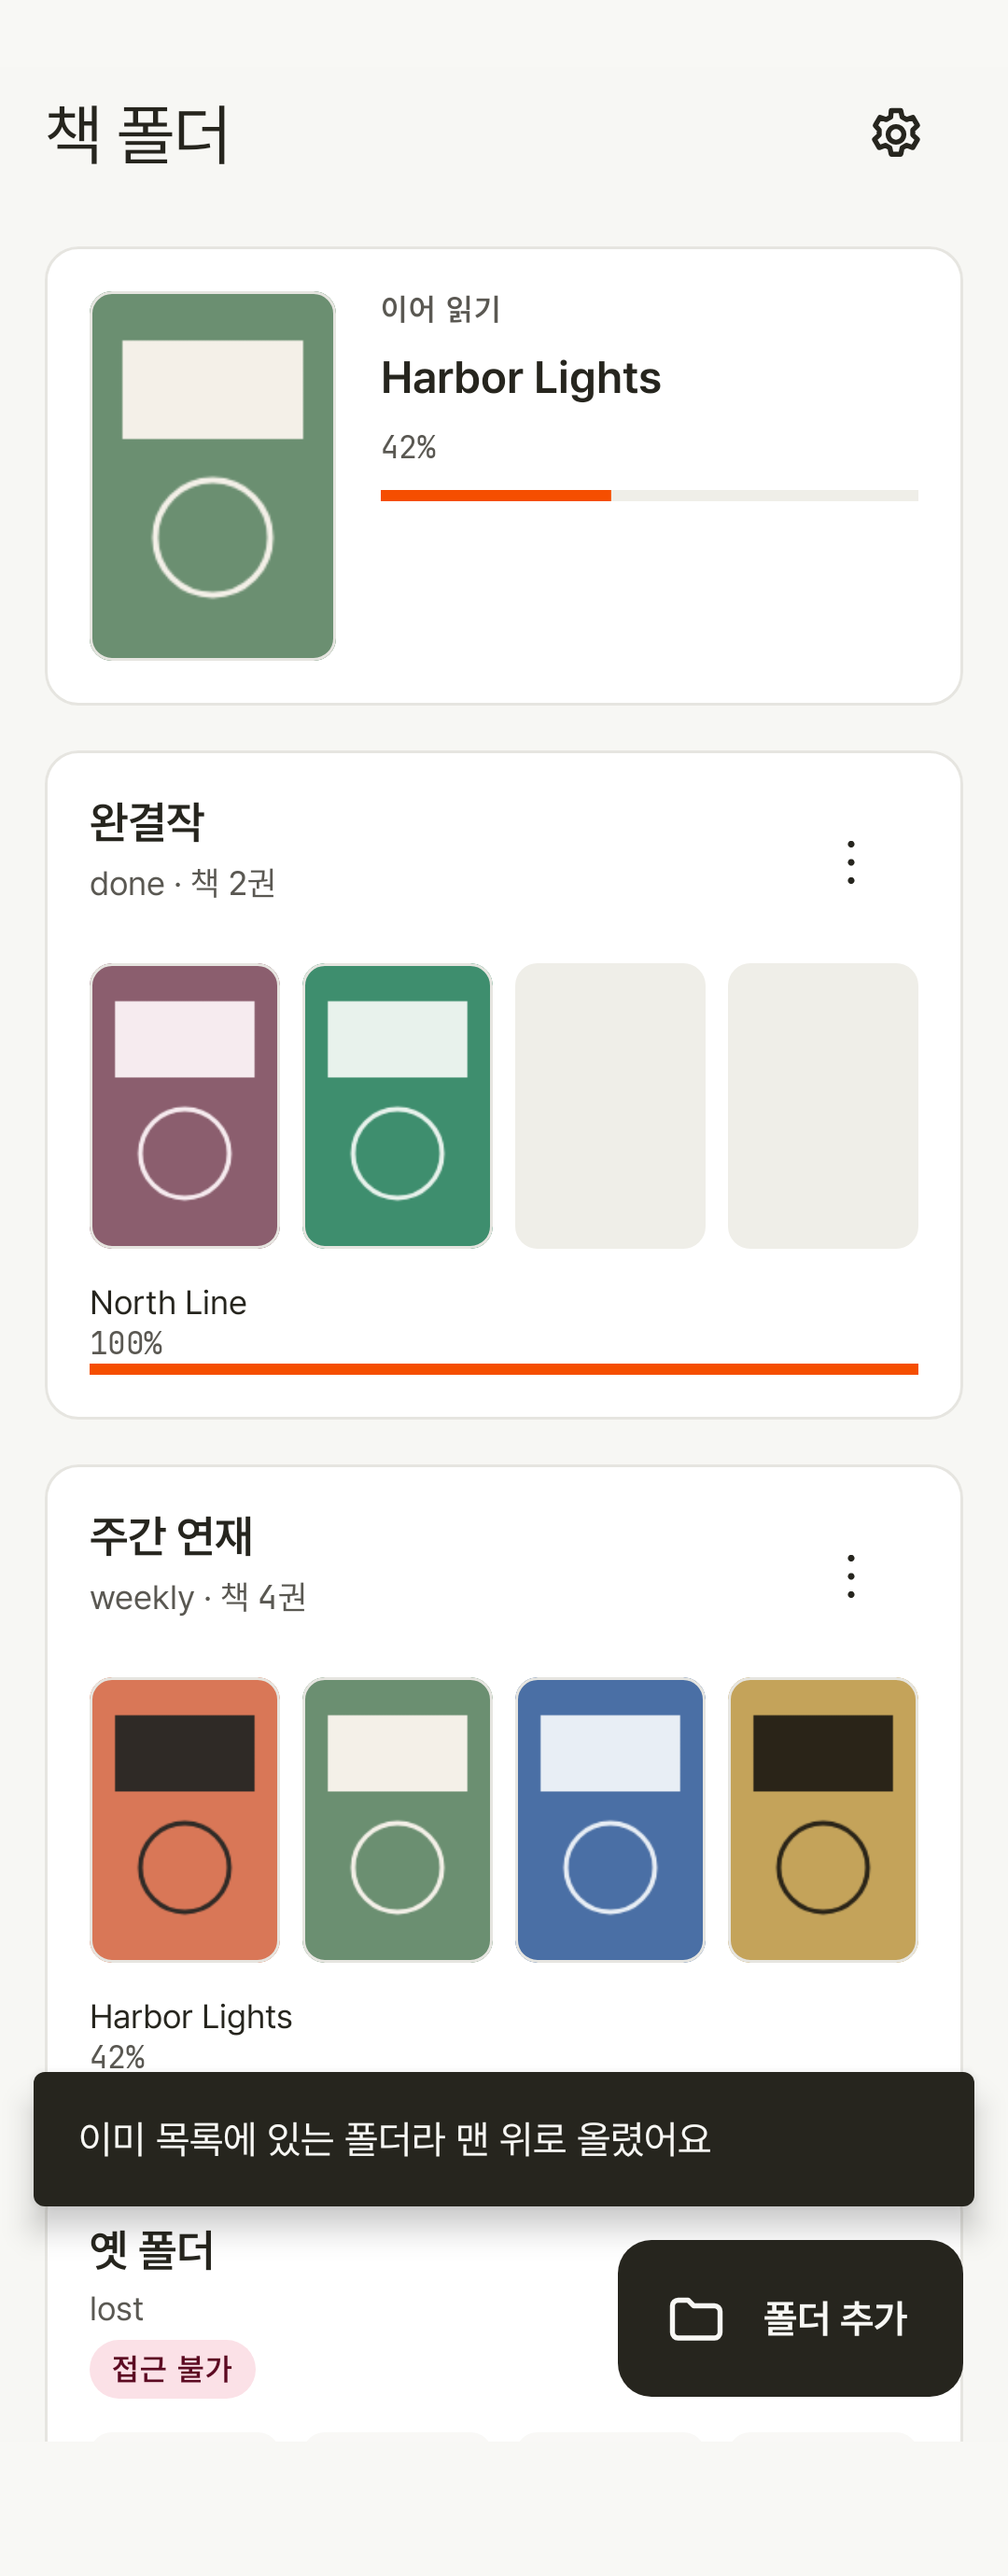
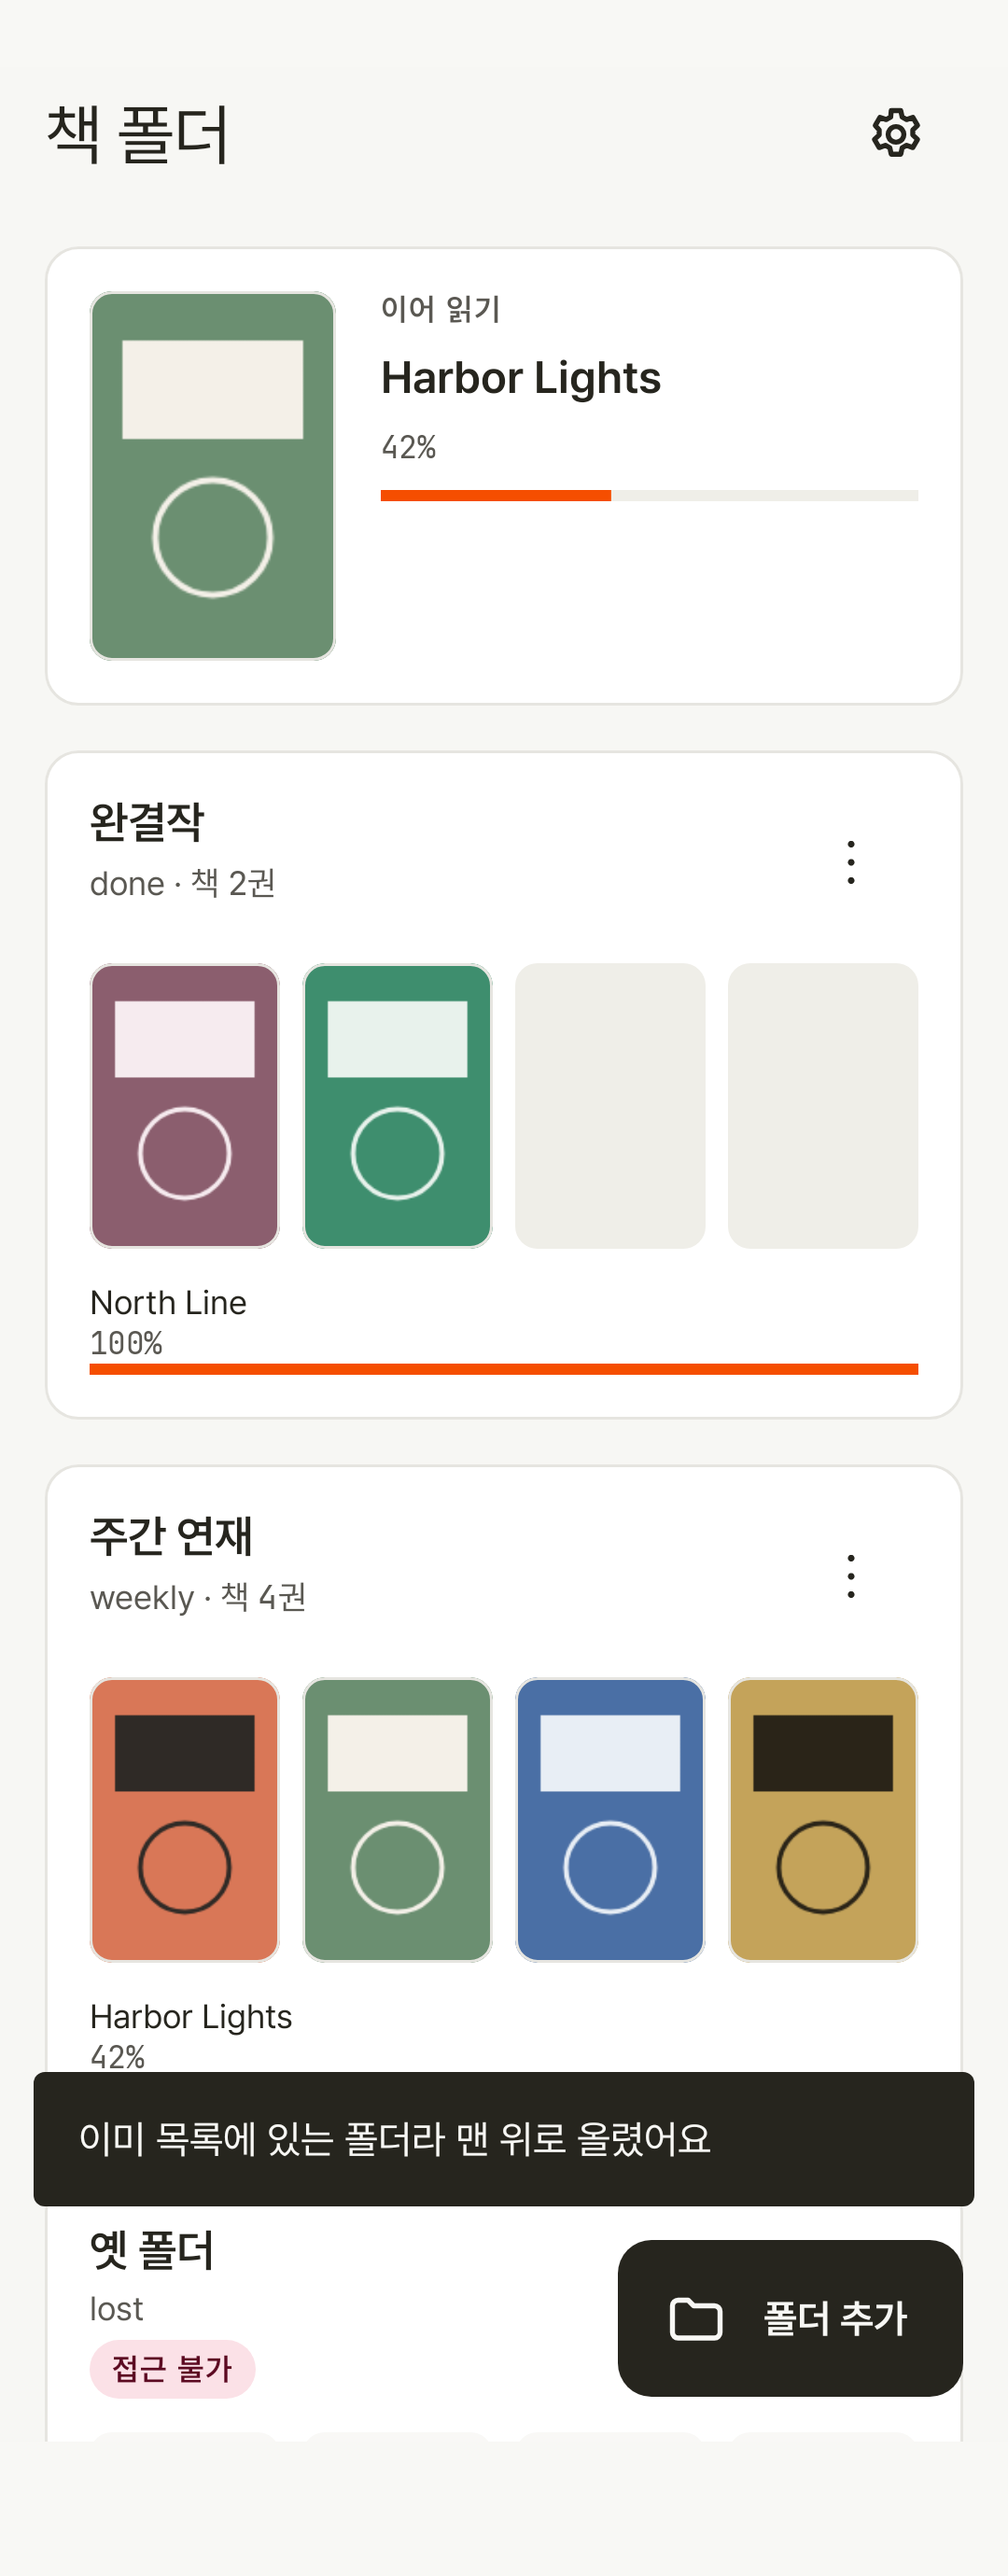
fix(ui): flatten snackbar elevation to zero (#25)

Changed region(s): [[0.0306, 0.8413, 0.9778, 0.8725]]

diff --git a/app/src/test/java/org/parkjw/apps/pdfbook/ui/theme/DesignGuardTest.kt b/app/src/test/java/org/parkjw/apps/pdfbook/ui/theme/DesignGuardTest.kt
@@ -130,6 +130,82 @@ class DesignGuardTest {
     }
 
     @Test
+    fun snackbarOnlyViaSharedWrapper() {
+        val root = projectRoot()
+        val javaRoot = File(root, "app/src/main/java")
+        val allowed = setOf("PdfBookSnackbar.kt")
+        val offenders = javaRoot.walkTopDown()
+            .filter { it.isFile && it.extension == "kt" && it.name !in allowed }
+            .flatMap { file ->
+                val text = file.readText()
+                (findDirectSnackbarCalls(text) + findDirectSnackbarHostCalls(text))
+                    .map { "${file.relativeTo(root)}: $it" }
+            }
+            .toList()
+        assertEquals(
+            "Snackbar/SnackbarHost outside PdfBookSnackbar.kt:\n${offenders.joinToString("\n")}",
+            emptyList<String>(),
+            offenders,
+        )
+    }
+
+    @Test
+    fun sharedSnackbarUsesZeroShadowElevation() {
+        val source = File(
+            projectRoot(),
+            "app/src/main/java/org/parkjw/apps/pdfbook/ui/theme/PdfBookSnackbar.kt",
+        ).readText()
+        assertTrue(
+            "PdfBookSnackbar must set shadowElevation = 0.dp",
+            usesZeroShadowElevation(source),
+        )
+        assertTrue(
+            "PdfBookSnackbar must set tonalElevation = 0.dp",
+            usesZeroTonalElevation(source),
+        )
+        assertFalse(
+            "self-check: missing zero shadow must fail",
+            usesZeroShadowElevation("Surface(color = c) {}"),
+        )
+        assertFalse(
+            "self-check: non-zero shadow must fail",
+            usesZeroShadowElevation("Surface(shadowElevation = 6.dp) {}"),
+        )
+        assertFalse(
+            "self-check: missing zero tonal must fail",
+            usesZeroTonalElevation("Surface(shadowElevation = 0.dp) {}"),
+        )
+        assertFalse(
+            "self-check: non-zero tonal must fail",
+            usesZeroTonalElevation("Surface(tonalElevation = 6.dp) {}"),
+        )
+    }
+
+    @Test
+    fun sharedSnackbarFillsWidthWithMaxCap() {
+        val source = File(
+            projectRoot(),
+            "app/src/main/java/org/parkjw/apps/pdfbook/ui/theme/PdfBookSnackbar.kt",
+        ).readText()
+        assertTrue(
+            "PdfBookSnackbar must use widthIn(max = 600.dp)",
+            usesSnackbarMaxWidth(source),
+        )
+        assertTrue(
+            "PdfBookSnackbar must use fillMaxWidth()",
+            usesSnackbarFillMaxWidth(source),
+        )
+        assertFalse(
+            "self-check: missing widthIn max must fail",
+            usesSnackbarMaxWidth("Modifier.fillMaxWidth()"),
+        )
+        assertFalse(
+            "self-check: missing fillMaxWidth must fail",
+            usesSnackbarFillMaxWidth("Modifier.widthIn(max = 600.dp)"),
+        )
+    }
+
+    @Test
     fun m3ShapesDoNotUsePill() {
         val shape = File(projectRoot(), "app/src/main/java/org/parkjw/apps/pdfbook/ui/theme/Shape.kt").readText()
         assertTrue("DialogCorner missing", Regex("""val\s+DialogCorner\s*=""").containsMatchIn(shape))
@@ -206,6 +282,12 @@ class DesignGuardTest {
         assertFalse(findDirectProgressOrSliderCalls("PdfBookReaderSlider(value = 0f, onValueChange = {})").isNotEmpty())
         assertTrue(findDirectDropdownMenuCalls("DropdownMenu(expanded = true, onDismissRequest = {}) {}").isNotEmpty())
         assertFalse(findDirectDropdownMenuCalls("PdfBookDropdownMenu(expanded = true, onDismissRequest = {}) {}").isNotEmpty())
+        assertTrue(findDirectSnackbarCalls("Snackbar(snackbarData = data)").isNotEmpty())
+        assertFalse(findDirectSnackbarCalls("PdfBookSnackbar(snackbarData = data)").isNotEmpty())
+        assertTrue(findDirectSnackbarHostCalls("SnackbarHost(hostState = state) {}").isNotEmpty())
+        assertFalse(findDirectSnackbarHostCalls("PdfBookSnackbarHost(hostState = state)").isNotEmpty())
+        assertTrue(usesZeroShadowElevation("Surface(shadowElevation = 0.dp, tonalElevation = 0.dp) {}"))
+        assertTrue(usesZeroTonalElevation("Surface(shadowElevation = 0.dp, tonalElevation = 0.dp) {}"))
     }
 
     private fun projectRoot(): File {
@@ -247,6 +329,18 @@ class DesignGuardTest {
             Regex("""(?<![A-Za-z0-9_])(?:LinearProgressIndicator|Slider)\s*\(""")
         private val directDropdownMenuCall =
             Regex("""(?<![A-Za-z0-9_])DropdownMenu\s*\(""")
+        private val directSnackbarCall =
+            Regex("""(?<![A-Za-z0-9_])Snackbar\s*\(""")
+        private val directSnackbarHostCall =
+            Regex("""(?<![A-Za-z0-9_])SnackbarHost\s*\(""")
+        private val zeroShadowElevation =
+            Regex("""shadowElevation\s*=\s*0(?:\.0)?\.dp\b""")
+        private val zeroTonalElevation =
+            Regex("""tonalElevation\s*=\s*0(?:\.0)?\.dp\b""")
+        private val snackbarMaxWidth =
+            Regex("""widthIn\s*\(\s*max\s*=\s*600(?:\.0)?\.dp\s*\)""")
+        private val snackbarFillMaxWidth =
+            Regex("""fillMaxWidth\s*\(\s*\)""")
 
         fun findTextButtonsWithoutColors(source: String): List<String> {
             val hits = mutableListOf<String>()
@@ -275,6 +369,24 @@ class DesignGuardTest {
 
         fun findDirectDropdownMenuCalls(source: String): List<String> =
             directDropdownMenuCall.findAll(source).map { it.value.trim() }.toList()
+
+        fun findDirectSnackbarCalls(source: String): List<String> =
+            directSnackbarCall.findAll(source).map { it.value.trim() }.toList()
+
+        fun findDirectSnackbarHostCalls(source: String): List<String> =
+            directSnackbarHostCall.findAll(source).map { it.value.trim() }.toList()
+
+        fun usesZeroShadowElevation(source: String): Boolean =
+            zeroShadowElevation.containsMatchIn(source)
+
+        fun usesZeroTonalElevation(source: String): Boolean =
+            zeroTonalElevation.containsMatchIn(source)
+
+        fun usesSnackbarMaxWidth(source: String): Boolean =
+            snackbarMaxWidth.containsMatchIn(source)
+
+        fun usesSnackbarFillMaxWidth(source: String): Boolean =
+            snackbarFillMaxWidth.containsMatchIn(source)
 
         private fun balancedArgs(source: String, openParenIndex: Int): String? {
             if (openParenIndex !in source.indices || source[openParenIndex] != '(') return null

diff --git a/app/src/main/java/org/parkjw/apps/pdfbook/ui/theme/PdfBookSnackbar.kt b/app/src/main/java/org/parkjw/apps/pdfbook/ui/theme/PdfBookSnackbar.kt
@@ -1,0 +1,106 @@
+package org.parkjw.apps.pdfbook.ui.theme
+
+import androidx.compose.foundation.layout.Box
+import androidx.compose.foundation.layout.Row
+import androidx.compose.foundation.layout.fillMaxWidth
+import androidx.compose.foundation.layout.heightIn
+import androidx.compose.foundation.layout.padding
+import androidx.compose.foundation.layout.widthIn
+import androidx.compose.material3.Icon
+import androidx.compose.material3.IconButton
+import androidx.compose.material3.MaterialTheme
+import androidx.compose.material3.SnackbarData
+import androidx.compose.material3.SnackbarDefaults
+import androidx.compose.material3.SnackbarHost
+import androidx.compose.material3.SnackbarHostState
+import androidx.compose.material3.Surface
+import androidx.compose.material3.Text
+import androidx.compose.material3.TextButton
+import androidx.compose.runtime.Composable
+import androidx.compose.ui.Alignment
+import androidx.compose.ui.Modifier
+import androidx.compose.ui.res.painterResource
+import androidx.compose.ui.res.stringResource
+import androidx.compose.ui.unit.dp
+import org.parkjw.apps.pdfbook.R
+
+@Composable
+fun PdfBookSnackbar(
+    snackbarData: SnackbarData,
+    modifier: Modifier = Modifier,
+) {
+    val actionLabel = snackbarData.visuals.actionLabel
+    val withDismissAction = snackbarData.visuals.withDismissAction
+    Surface(
+        modifier = modifier.padding(PdfBookSpacing.sm),
+        shape = MaterialTheme.shapes.extraSmall,
+        color = MaterialTheme.colorScheme.inverseSurface,
+        contentColor = MaterialTheme.colorScheme.inverseOnSurface,
+        tonalElevation = 0.dp,
+        shadowElevation = 0.dp,
+    ) {
+        val containerModifier = Modifier
+            .widthIn(max = 600.dp)
+            .fillMaxWidth()
+            .heightIn(min = 48.dp)
+        if (actionLabel == null && !withDismissAction) {
+            Box(
+                modifier = containerModifier.padding(horizontal = PdfBookSpacing.md),
+                contentAlignment = Alignment.CenterStart,
+            ) {
+                Text(
+                    text = snackbarData.visuals.message,
+                    modifier = Modifier.padding(vertical = 14.dp),
+                    style = MaterialTheme.typography.bodyMedium,
+                )
+            }
+        } else {
+            Row(
+                modifier = containerModifier.padding(start = PdfBookSpacing.md, end = 8.dp),
+                verticalAlignment = Alignment.CenterVertically,
+            ) {
+                Text(
+                    text = snackbarData.visuals.message,
+                    modifier = Modifier
+                        .weight(1f)
+                        .padding(vertical = 14.dp)
+                        .padding(end = if (actionLabel == null) 8.dp else 0.dp),
+                    style = MaterialTheme.typography.bodyMedium,
+                )
+                if (actionLabel != null) {
+                    TextButton(
+                        onClick = { snackbarData.performAction() },
+                        colors = pdfBookTextButtonColors(
+                            contentColor = SnackbarDefaults.actionColor,
+                        ),
+                    ) {
+                        Text(actionLabel)
+                    }
+                }
+                if (withDismissAction) {
+                    IconButton(
+                        onClick = { snackbarData.dismiss() },
+                        colors = pdfBookIconButtonColors(
+                            contentColor = SnackbarDefaults.dismissActionContentColor,
+                        ),
+                    ) {
+                        Icon(
+                            painter = painterResource(R.drawable.ic_close),
+                            contentDescription = stringResource(R.string.snackbar_dismiss),
+                        )
+                    }
+                }
+            }
+        }
+    }
+}
+
+@Composable
+fun PdfBookSnackbarHost(
+    hostState: SnackbarHostState,
+    modifier: Modifier = Modifier,
+) {
+    SnackbarHost(hostState = hostState, modifier = modifier) { data ->
+        PdfBookSnackbar(snackbarData = data)
+    }
+}

diff --git a/app/src/test/java/org/parkjw/apps/pdfbook/ui/theme/PdfBookSnackbarTest.kt b/app/src/test/java/org/parkjw/apps/pdfbook/ui/theme/PdfBookSnackbarTest.kt
@@ -1,0 +1,59 @@
+package org.parkjw.apps.pdfbook.ui.theme
+
+import android.content.Context
+import androidx.compose.material3.SnackbarData
+import androidx.compose.material3.SnackbarDuration
+import androidx.compose.material3.SnackbarVisuals
+import androidx.compose.ui.test.junit4.v2.createComposeRule
+import androidx.compose.ui.test.onNodeWithContentDescription
+import androidx.compose.ui.test.onNodeWithText
+import androidx.compose.ui.test.performClick
+import androidx.test.core.app.ApplicationProvider
+import androidx.test.ext.junit.runners.AndroidJUnit4
+import org.junit.Assert.assertEquals
+import org.junit.Rule
+import org.junit.Test
+import org.junit.runner.RunWith
+import org.parkjw.apps.pdfbook.R
+import org.parkjw.apps.pdfbook.settings.ThemeMode
+import org.robolectric.annotation.Config
+
+@RunWith(AndroidJUnit4::class)
+@Config(sdk = [37])
+class PdfBookSnackbarTest {
+    @get:Rule
+    val composeRule = createComposeRule()
+
+    @Test
+    fun actionAndDismissInvokeSnackbarData() {
+        var actions = 0
+        var dismisses = 0
+        val data = object : SnackbarData {
+            override val visuals = object : SnackbarVisuals {
+                override val message = "Saved"
+                override val actionLabel = "Undo"
+                override val withDismissAction = true
+                override val duration = SnackbarDuration.Indefinite
+            }
+
+            override fun performAction() {
+                actions += 1
+            }
+
+            override fun dismiss() {
+                dismisses += 1
+            }
+        }
+        val dismissLabel = ApplicationProvider.getApplicationContext<Context>()
+            .getString(R.string.snackbar_dismiss)
+        composeRule.setContent {
+            PdfBookTheme(themeMode = ThemeMode.Light) {
+                PdfBookSnackbar(snackbarData = data)
+            }
+        }
+        composeRule.onNodeWithText("Undo").performClick()
+        assertEquals(1, actions)
+        composeRule.onNodeWithContentDescription(dismissLabel).performClick()
+        assertEquals(1, dismisses)
+    }
+}

diff --git a/app/src/main/java/org/parkjw/apps/pdfbook/FolderShelfScreen.kt b/app/src/main/java/org/parkjw/apps/pdfbook/FolderShelfScreen.kt
@@ -35,7 +35,6 @@ import androidx.compose.material3.MaterialTheme
 import androidx.compose.material3.OutlinedButton
 import androidx.compose.material3.OutlinedTextField
 import androidx.compose.material3.Scaffold
-import androidx.compose.material3.SnackbarHost
 import androidx.compose.material3.SnackbarHostState
 import androidx.compose.material3.Surface
 import androidx.compose.material3.Text
@@ -67,6 +66,7 @@ import org.parkjw.apps.pdfbook.ui.theme.PdfBookDropdownMenu
 import org.parkjw.apps.pdfbook.ui.theme.PdfBookNumeric
 import org.parkjw.apps.pdfbook.ui.theme.PdfBookProgressBar
 import org.parkjw.apps.pdfbook.ui.theme.PdfBookShapeTokens
+import org.parkjw.apps.pdfbook.ui.theme.PdfBookSnackbarHost
 import org.parkjw.apps.pdfbook.ui.theme.PdfBookSpacing
 import org.parkjw.apps.pdfbook.ui.theme.extendedColors
 import org.parkjw.apps.pdfbook.ui.theme.pdfBookIconButtonColors
@@ -113,7 +113,7 @@ fun FolderShelfScreen(
         modifier = modifier.fillMaxSize(),
         containerColor = MaterialTheme.colorScheme.background,
         contentWindowInsets = WindowInsets(0, 0, 0, 0),
-        snackbarHost = { SnackbarHost(snackbarHostState) },
+        snackbarHost = { PdfBookSnackbarHost(snackbarHostState) },
         floatingActionButton = {
             val ink = MaterialTheme.extendedColors
             ExtendedFloatingActionButton(
